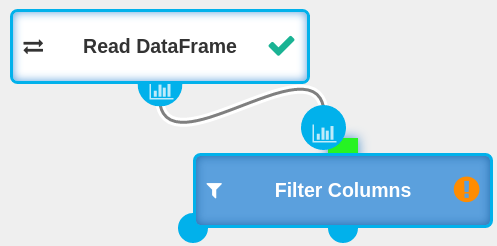
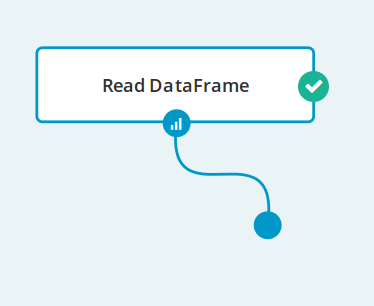
SHR-1015 Update getting started docs

diff --git a/docs/getting_started.md b/docs/getting_started.md
@@ -79,14 +79,10 @@ Then we will apply a simple transformation to the data.
   from the top menu. It will start up an Apache Spark backend for your workflow session.
 
 * Read some data into Seahorse:
-  * Drag **Read Dataframe** from the left-hand side panel onto the canvas.
-  * Click on the dragged **Read Dataframe** and change its parameters using the right-hand side panel.
-    Set `source` parameter to
-    <code>https://s3.amazonaws.com/workflowexecutor/examples/data/transactions.csv</code>
-
-<!--This screen is needed because 'Library' icon visually separates `SOURCE` -->
-<!-- and text input and it can be hard for user to know at once where should he input the text -->
-<img class="align-left img-responsive bordered-image" style="width:300px; height:auto" src="./img/getting_started/source_param.png" />
+  * Drag and drop a `Node` from the toolbox on the left to the canvas, or just right-click on the canvas.
+  * Select `Input/Output` > `Read DataFrame` from the operation selector.
+  * Click on the created `Read Dataframe`. You can set its parameters on the right-hand side panel.
+    Select the `transactions.csv` data source.
 
 * Run the operation by clicking the
   <img class="img-responsive" style="display: inline-block; width:auto; height:15px;" src="./img/getting_started/run.png" />
@@ -106,8 +102,8 @@ Then we will apply a simple transformation to the data.
 
 In the next step you will apply a simple transformation to your data.
 
-* Drag a `Filter Columns` operation onto the canvas.
-* Drag the Dataframe produced by the `Read Dataframe` operation to the `Filter Columns` operation.
+* Drag an edge from the output port of the `Read DataFrame`.
+* Select `Filter Columns` operation from the operation selector.
 
 <img class="align-left img-responsive" style="width:250px; height:auto" src="./img/getting_started/dragging_dataframe.png" />
 
